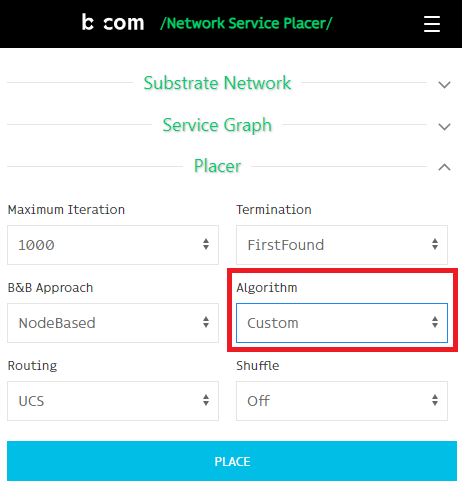
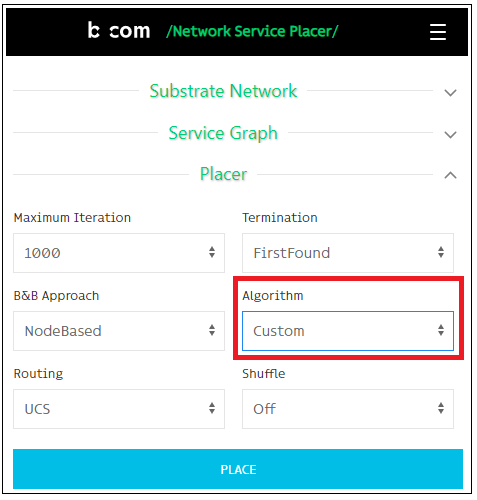
updated readme

diff --git a/README.md b/README.md
@@ -14,7 +14,9 @@ Connection established!
 
 3. Select the Custom algorithm in placer section of the nsplacer tool.
 
-<img src="res/custom-placer.png" width="48">
+<p align="center">
+<img src="res/custom-placer.png" width="150">
+</p>
 
 4. Click place to start the evalaution
 
